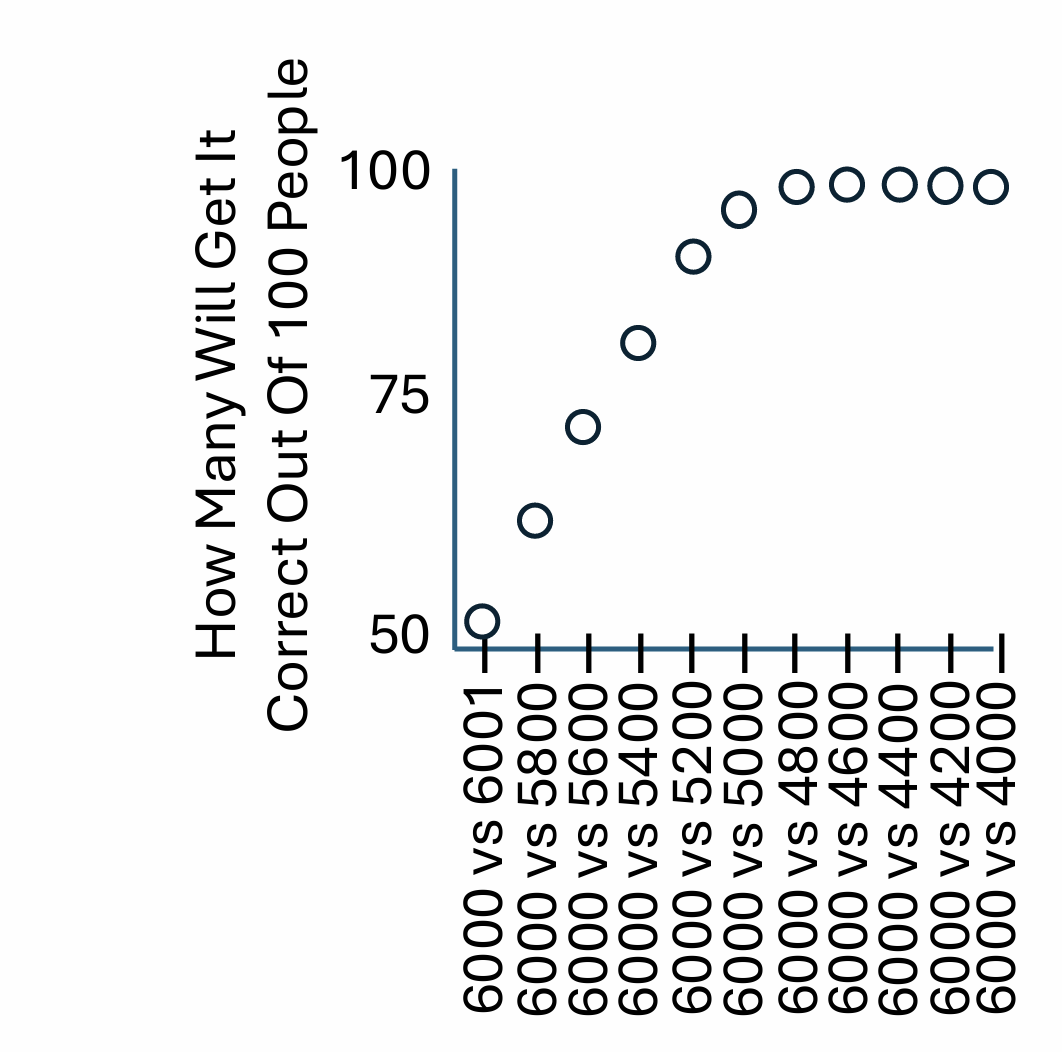
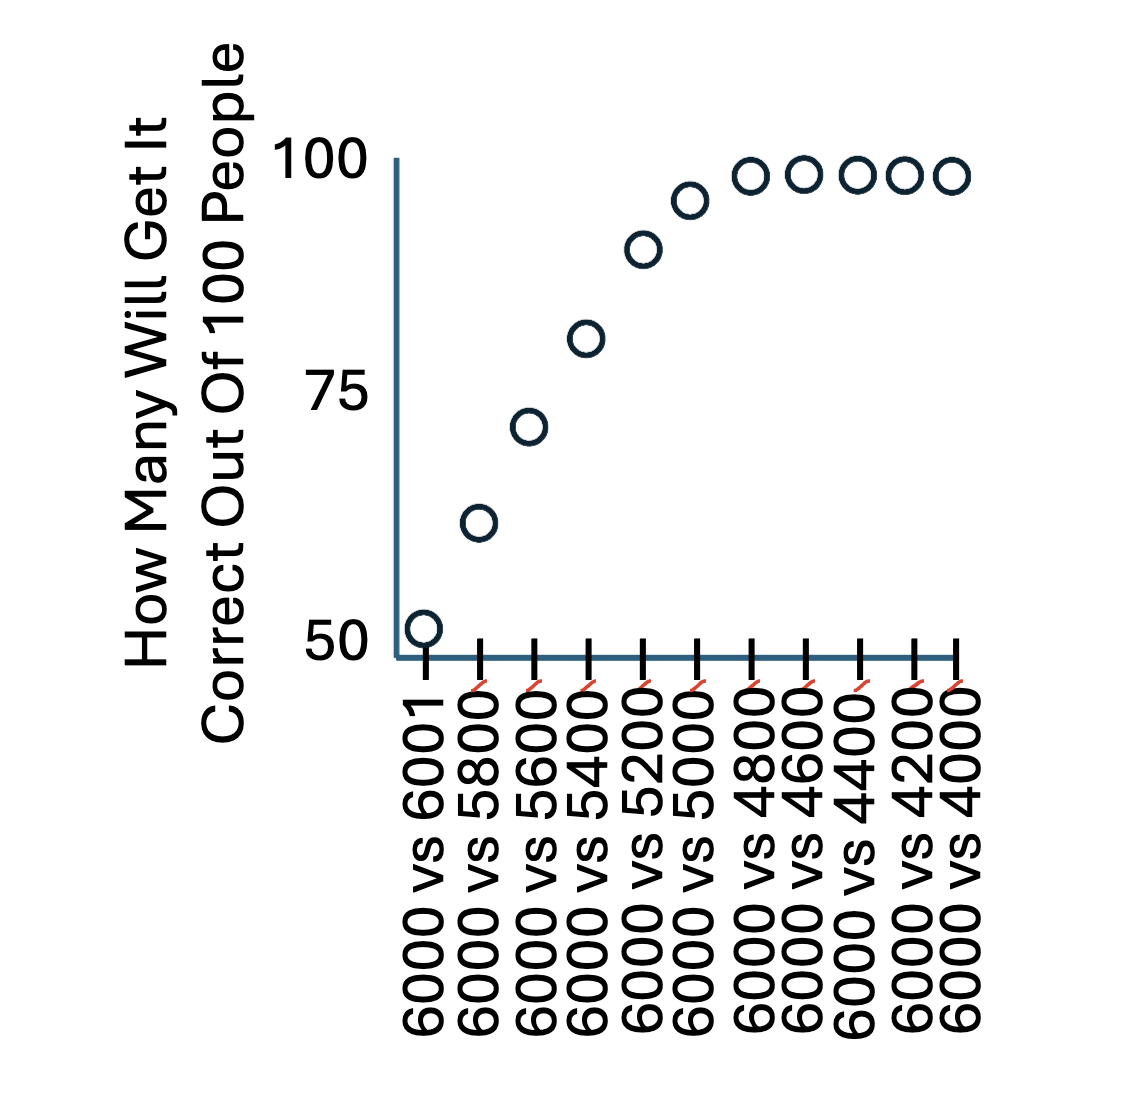
Final Initial touches, add wait, add shuffle

diff --git a/PredictStimuliDiff/predict-stimuli-diff/app/Experiment.tsx b/PredictStimuliDiff/predict-stimuli-diff/app/Experiment.tsx
@@ -2,13 +2,39 @@
 
 import { useEffect, useState } from "react";
 import { PAGES } from "./pages";
+import { recordResponse } from "./record";
+
+// Fisher-Yates shuffle, returns a new array.
+function shuffled<T>(items: T[]): T[] {
+  const a = [...items];
+  for (let i = a.length - 1; i > 0; i--) {
+    const j = Math.floor(Math.random() * (i + 1));
+    [a[i], a[j]] = [a[j], a[i]];
+  }
+  return a;
+}
 
 export default function Experiment() {
   // Current page index. Managed in state only — no URL, so no skipping.
   const [index, setIndex] = useState(0);
 
-  // Selected image index, per page id. { [pageId]: imageIndex }
+  // Selected image index (into the page's original `images`), per page id.
+  // Storing the original index keeps the answer stable even when shuffled.
   const [answers, setAnswers] = useState<Record<string, number>>({});
+
+  // Display order per page id: a permutation of the original image indices.
+  // Built once on mount (client-only) so each session gets a fresh order and
+  // there is no server/client hydration mismatch.
+  const [orders, setOrders] = useState<Record<string, number[]>>({});
+  useEffect(() => {
+    const next: Record<string, number[]> = {};
+    for (const p of PAGES) {
+      if (p.shuffle && p.images) {
+        next[p.id] = shuffled(p.images.map((_, i) => i));
+      }
+    }
+    setOrders(next);
+  }, []);
 
   // Fraction of the wait elapsed (0 -> 1). Resets on every page.
   const [progress, setProgress] = useState(0);
@@ -39,12 +65,27 @@ export default function Experiment() {
   const isLast = index === PAGES.length - 1;
 
   const images = page.images ?? [];
+  // Display order: the shuffled permutation if present, else natural order.
+  const order = orders[page.id] ?? images.map((_, i) => i);
   const containerClass =
     page.layout === "grid"
       ? "grid w-full max-w-4xl grid-cols-2 place-items-center gap-3 md:grid-cols-3"
       : "flex flex-wrap items-start justify-center gap-6";
   // Capped heights so a grid of images fits a typical screen without scrolling.
   const imgSize = page.layout === "grid" ? "max-h-52 w-auto" : "max-h-72 w-auto";
+
+  // Advance to the next page. On a selection page, record the response (the
+  // displayed order and the chosen image) at this point — not on every click.
+  const handleNext = () => {
+    if (page.record && selected !== undefined) {
+      recordResponse({
+        pageId: page.id,
+        order: order.map((k) => images[k].src),
+        selected: images[selected].src,
+      });
+    }
+    if (!isLast) setIndex((i) => i + 1);
+  };
 
   return (
     <main className="flex flex-1 flex-col items-center justify-start gap-8 p-8 pt-16">
@@ -54,13 +95,14 @@ export default function Experiment() {
 
       {images.length > 0 && (
         <div className={containerClass}>
-          {images.map((img, i) => {
-            const isSelected = selected === i;
+          {order.map((origIndex) => {
+            const img = images[origIndex];
+            const isSelected = selected === origIndex;
             const select = img.selectable
-              ? () => setAnswers((a) => ({ ...a, [page.id]: i }))
+              ? () => setAnswers((a) => ({ ...a, [page.id]: origIndex }))
               : undefined;
             return (
-              <figure key={i} className="flex flex-col items-center gap-2">
+              <figure key={origIndex} className="flex flex-col items-center gap-2">
                 <img
                   src={img.src}
                   alt={img.alt ?? ""}
@@ -70,7 +112,7 @@ export default function Experiment() {
                     "rounded-lg border-2 bg-white object-contain",
                     img.selectable ? "cursor-pointer" : "",
                     isSelected
-                      ? "border-blue-500 ring-2 ring-blue-500"
+                      ? "border-blue-800 ring-2 ring-blue-800"
                       : "border-transparent",
                   ].join(" ")}
                 />
@@ -95,15 +137,15 @@ export default function Experiment() {
           page.link ? (
             <a
               href={page.link.url}
-              className="rounded-lg bg-blue-600 px-6 py-3 text-lg text-white"
+              className="rounded-lg bg-blue-800 px-6 py-3 text-lg text-white"
             >
               {page.link.label}
             </a>
           ) : (
             <button
-              onClick={() => !isLast && setIndex((i) => i + 1)}
+              onClick={handleNext}
               disabled={isLast}
-              className="rounded-lg bg-blue-600 px-6 py-3 text-lg text-white disabled:opacity-50"
+              className="rounded-lg bg-blue-800 px-6 py-3 text-lg text-white disabled:opacity-50"
             >
               {isLast ? "Done" : "Next"}
             </button>
@@ -112,7 +154,7 @@ export default function Experiment() {
           <div className="flex w-64 flex-col items-center gap-2">
             <div className="h-2 w-full overflow-hidden rounded-full bg-black/10">
               <div
-                className="h-full bg-blue-600 transition-[width] duration-100"
+                className="h-full bg-blue-800 transition-[width] duration-100"
                 style={{ width: `${progress * 100}%` }}
               />
             </div>

diff --git a/PredictStimuliDiff/predict-stimuli-diff/app/pages.ts b/PredictStimuliDiff/predict-stimuli-diff/app/pages.ts
@@ -24,6 +24,8 @@ export type Page = {
   layout?: "row" | "grid"; // how to arrange multiple images (default "row")
   waitSeconds: number;
   requireSelection?: boolean;
+  record?: boolean; // record the response (order + selection) when leaving the page
+  shuffle?: boolean; // randomize the display order of images (once per session)
   link?: { url: string; label: string }; // show a link button instead of Next
 };
 
@@ -34,7 +36,7 @@ export const PAGES: Page[] = [
   {
     id: "intro",
     text: "For this question, your job will be to consider the likely results of a psychology experiment.",
-    waitSeconds: 3,
+    waitSeconds: 3.75,
   },
   {
     id: "task",
@@ -43,7 +45,7 @@ export const PAGES: Page[] = [
       { src: "/bag_left.png", alt: "A bag of sand" },
       { src: "/bag_right.png", alt: "A bag of sand" },
     ],
-    waitSeconds: 4,
+    waitSeconds: 5,
   },
   {
     id: "grains",
@@ -52,48 +54,48 @@ export const PAGES: Page[] = [
       { src: "/bag_left.png", alt: "A bag of sand", caption: "5000 grains of sand" },
       { src: "/bag_right.png", alt: "A bag of sand", caption: "6000 grains of sand" },
     ],
-    waitSeconds: 4,
+    waitSeconds: 5,
   },
   {
     id: "five-graphs",
     text: "You will be presented with 5 different graphs that show the possible outcomes from many such comparisons and your job will be to decide which one appears to be the correct graph.",
-    waitSeconds: 4,
+    waitSeconds: 5,
   },
   {
     id: "x-axis",
     text: "In each of the figures you will see, the bottom axis shows the numbers of grains to be compared. The easiest trials appear on the right (e.g., 6000 versus 4000 grains of sand) and the hardest trials on the left (e.g., 6000 versus 6001 grains of sand) with some relevant trials noted in between (e.g., 6000 versus 5600 grains of sand).",
     images: [{ src: "/A.png", alt: "The horizontal axis of comparisons" }],
-    waitSeconds: 5,
+    waitSeconds: 6.25,
   },
   {
     id: "y-axis",
     text: "The vertical axis will show the number of people, out of 100, who will choose the correct bag of sand (i.e., with their eyes closed, will be able to feel which bag is heavier).",
     images: [{ src: "/B.png", alt: "Empty graph axes" }],
-    waitSeconds: 5,
+    waitSeconds: 6.25,
   },
   {
     id: "imagine",
     text: "For each comparison, imagine attempting to do the trial yourself and decide “how many people out of 100 will choose the correct bag of sand.”",
     images: [{ src: "/B.png", alt: "Empty graph axes" }],
-    waitSeconds: 4,
+    waitSeconds: 5,
   },
   {
     id: "anchor-easy",
     text: "The creators of the experiment have provided two values to guide us. For the easiest trial (e.g., 6000 vs 4000), the creators estimate that “99 people out of 100 will get this correct” – because this trial is easy enough that nearly all people will successfully feel which bag is heavier.",
     images: [{ src: "/C.png", alt: "Graph with the easiest trial marked “Getting it Right!”" }],
-    waitSeconds: 5,
+    waitSeconds: 6.25,
   },
   {
     id: "anchor-hard",
     text: "For the hardest trial (e.g., 6000 vs 6001), the creators estimate that “51 people out of 100 will get this correct” – because this trial is so difficult that people are very close to chance performance. Notice that guessing would result in getting it correct half the time (just by chance) and getting it wrong half of the time – this is why the worst performance is at 50 people out of 100.",
     images: [{ src: "/D.png", alt: "Graph with the hardest trial marked “At Chance!”" }],
-    waitSeconds: 5,
+    waitSeconds: 6.25,
   },
   {
     id: "preview",
     text: "Now, imagine all of the possible combinations in between these two values. How do you expect the figure to look after many experimental trials of these sorts? We’ll show you 5 possible graphs.",
     images: [{ src: "/E.png", alt: "Graph with only the easiest and hardest trials marked" }],
-    waitSeconds: 4,
+    waitSeconds: 5,
   },
   {
     id: "question",
@@ -106,8 +108,10 @@ export const PAGES: Page[] = [
       { src: "/J.png", alt: "Candidate graph 5", selectable: true },
     ],
     layout: "grid",
-    waitSeconds: 3,
+    waitSeconds: 10,
     requireSelection: true,
+    record: true,
+    shuffle: true,
   },
   {
     id: "thanks",

diff --git a/PredictStimuliDiff/predict-stimuli-diff/app/record.ts b/PredictStimuliDiff/predict-stimuli-diff/app/record.ts
@@ -1,0 +1,13 @@
+// Stub for recording a participant's response. Later this will POST to the
+// backend; for now it just logs so the shape is easy to see.
+
+export type Response = {
+  pageId: string;
+  order: string[]; // image srcs in the order they were displayed
+  selected: string; // src of the image the participant chose
+};
+
+export function recordResponse(response: Response) {
+  // TODO: replace with a POST to the backend.
+  console.log("recordResponse", response);
+}
